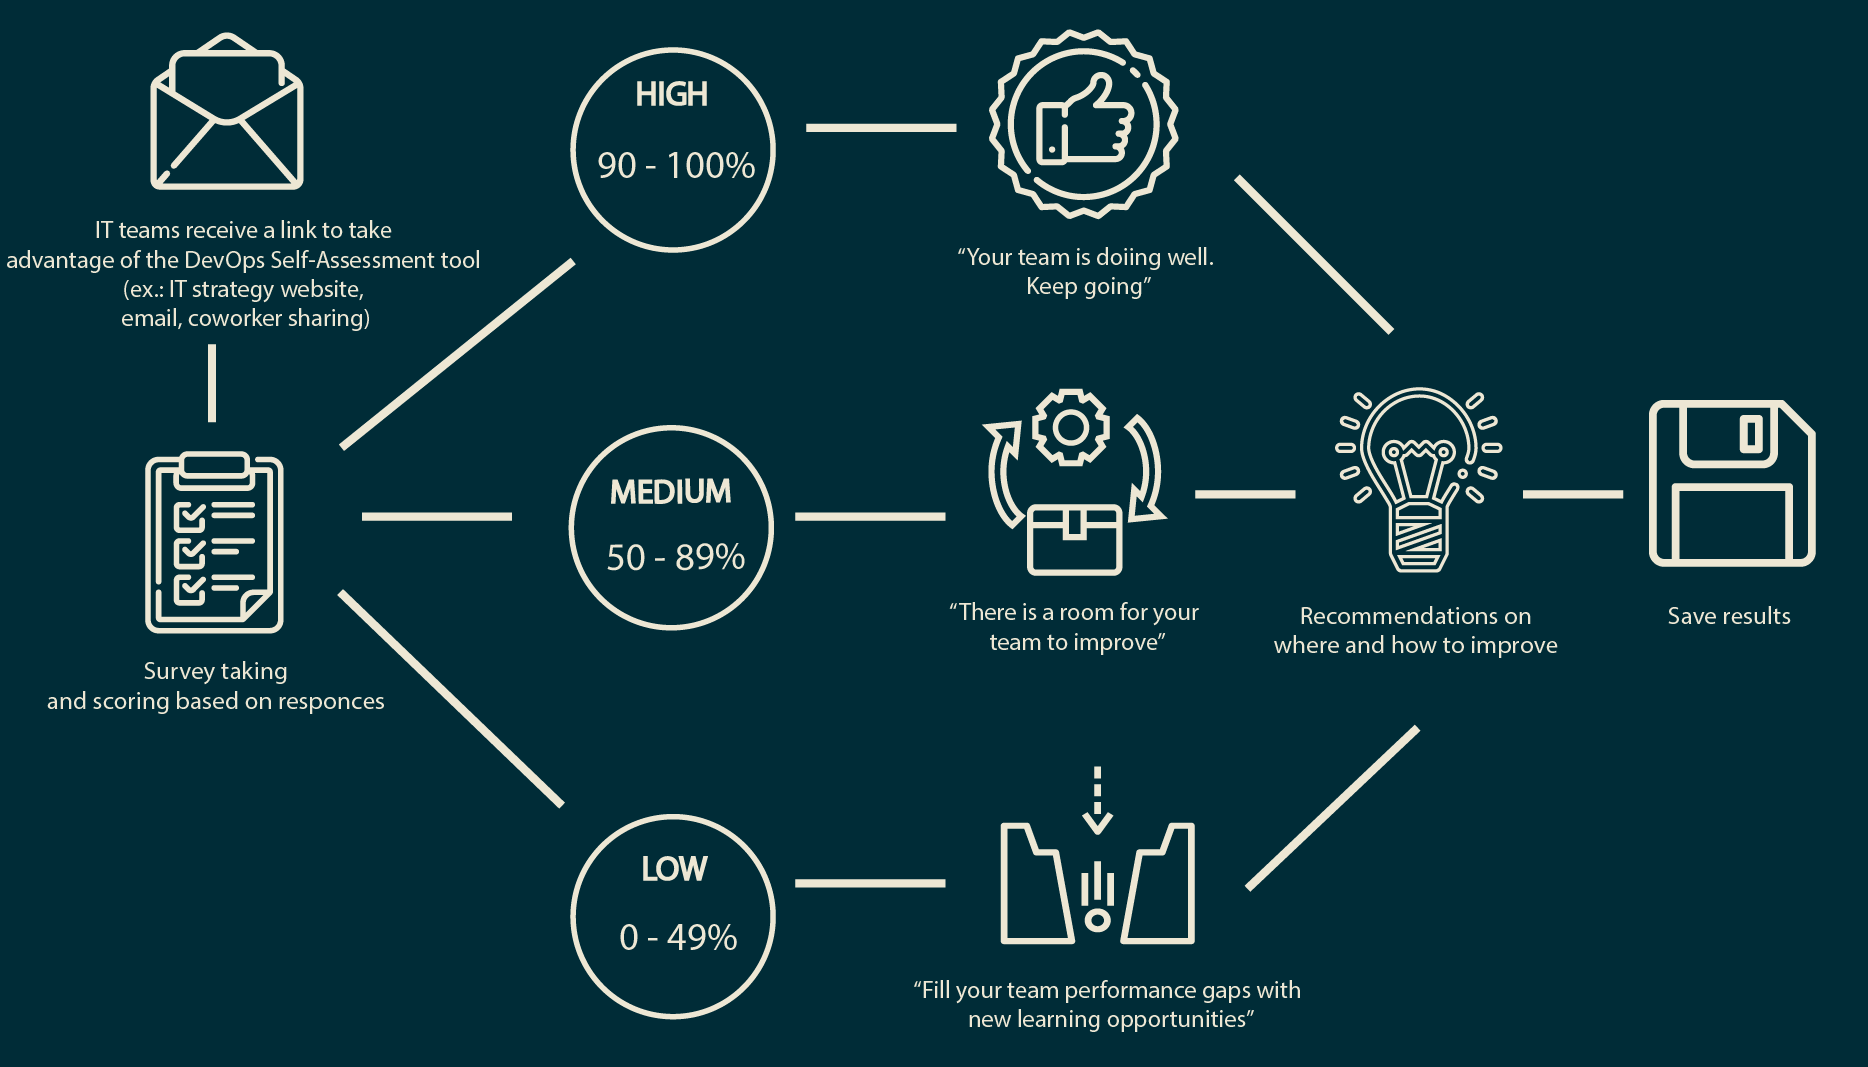
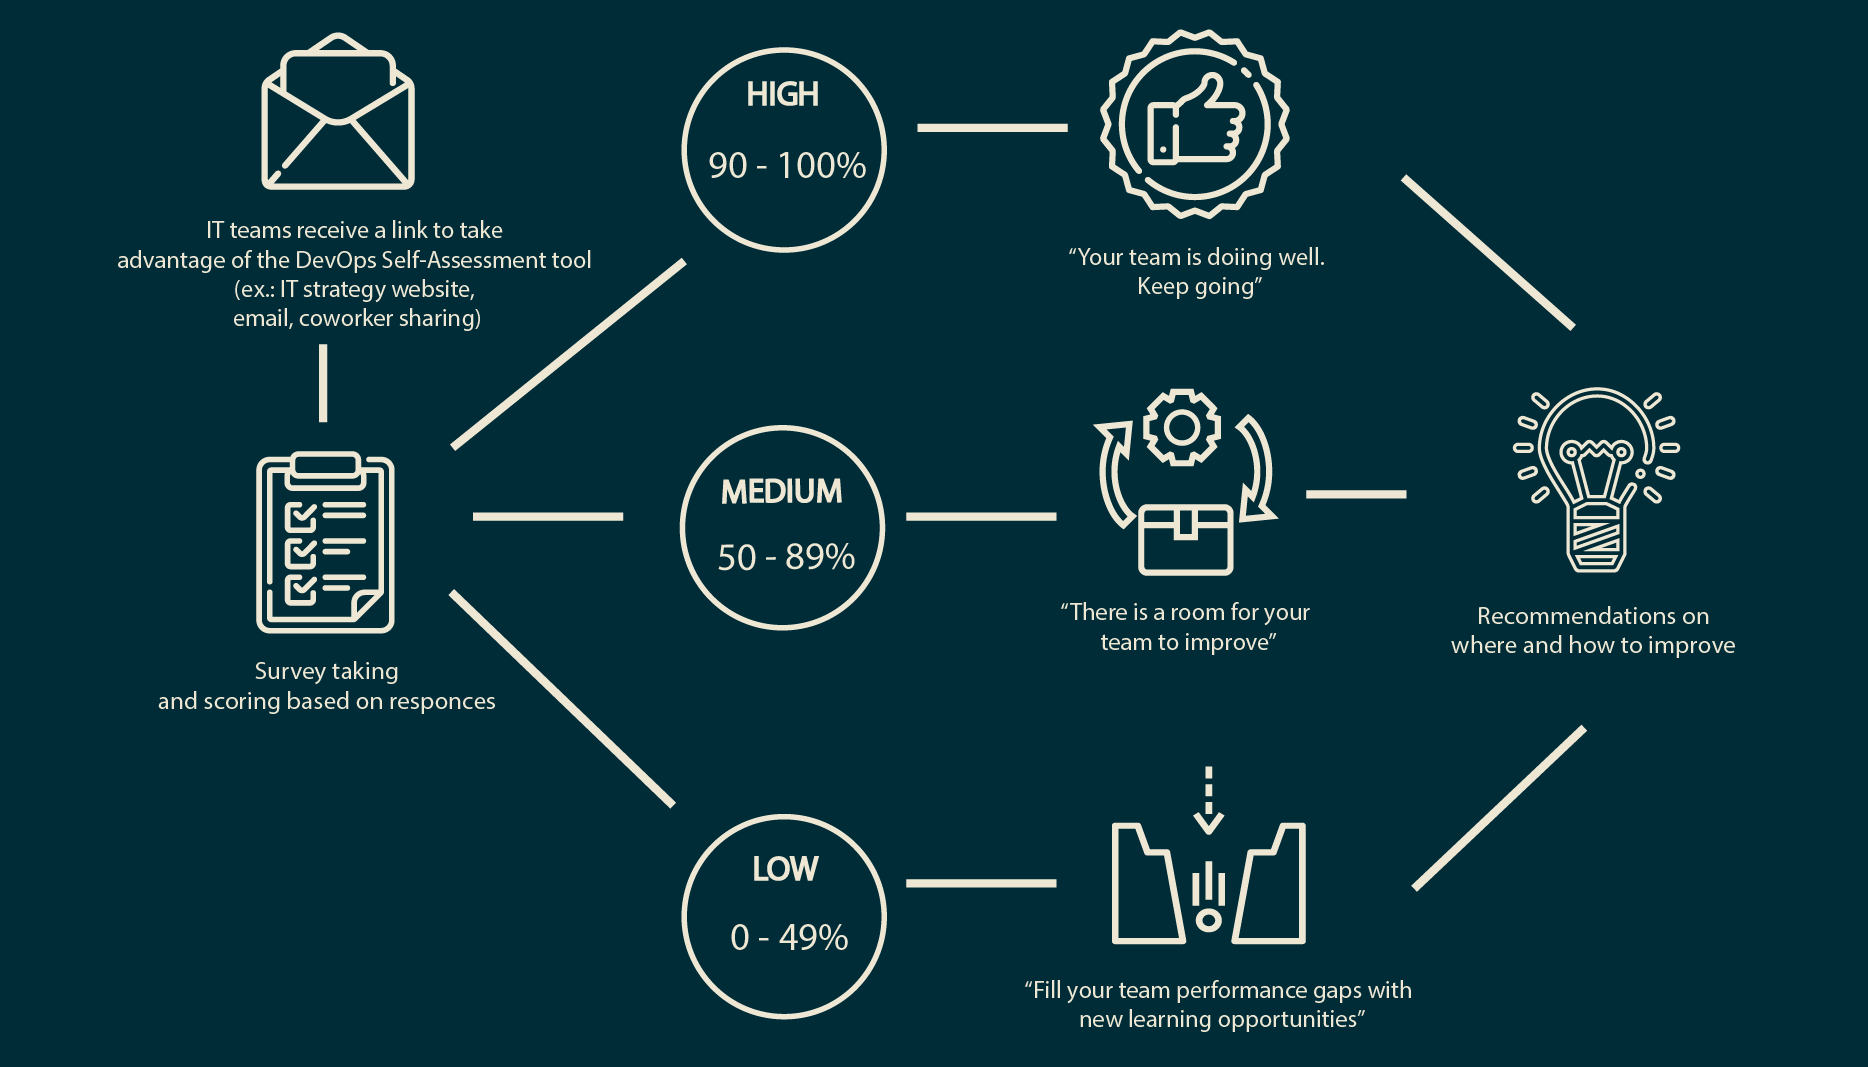
Update to the Self-assessment tool deck (#1654)
* Save changes after meeting

* Update credits and date

* changed image

* More edits

* Save before Dry-run

* Fix Build

diff --git a/presentations/en/2021-05-DevOps-Self-Assessment-Tool.md b/presentations/en/2021-05-DevOps-Self-Assessment-Tool.md
@@ -4,7 +4,7 @@
 
 ## Capabilities of high performing IT organizations
 
-SABR - IT Strategy - 2021-05
+IT Strategy & DevOps CoE - May 2021
 
 ---
 
@@ -15,7 +15,7 @@ SABR - IT Strategy - 2021-05
 - What is it based on
 - How to transform into high performing IT
 - How does it work
-- How long does it take and how often should I use it
+- What is involved
 - When and how can I get it
 - Demo
 
@@ -37,10 +37,49 @@ Promote continuous improvement through the use of a **DevOps Self Assessment Too
 ## Why use the tool
 
 - Learn about DevOps
-- Help establish a baseline on level of readiness and maturity to adopt DevOps
-- Recommendations on where and what to improve based on assessment results
-- Continuous improvement
-- Aligned to Policy and Directive on Service and Digital
+- Gather data to assess, analyse, implement and improve DevOps maturity, year over year at ESDC
+- Get recommendations on what your team can do to improve your capabilities
+  - DevOps guidance will continuously improve over time
+- GC Digital Standards
+- TBS Policy and Directive on Service and Digital
+
+--
+
+<img src="assets/images/improvement_method.png" alt="The image demonstrates assessment process methodology flow. It has five steps. Step 1. Assess your team performance and identify where it stands within DevOps. Step 2. Analyze and get your guidelines on how and what areas to improve. Step 3. Implement recommendations to achieve team desired outcomes. Step 4. Improve which means come back and re-take the survey to track your team progress.">
+
+---
+
+## What is it based on
+
+[DevOps Research & Assessment (DORA)](https://www.devops-research.com/research.html)
+
+- Over seven years of data and statistical analysis
+  - State of DevOps Reports (2014 to 2021)
+- Data from over 31000 professionals worldwide
+
+Identifies **capabilities that drive high performance in technology** delivery and ultimately organizational outcomes.
+
+> Recently bought by Google
+
+--
+
+### Why DORA
+
+- Longest running study of its kind
+- Based on statistical analysis
+- Not only technical capabilities
+- Real IT Organizations
+
+---
+
+## How to Transform
+
+### Continuous Improvement
+
+1. Set goals and enable team experimentation
+2. Build community structures to spread knowledge
+
+[DORA How To Transform](https://cloud.google.com/solutions/devops/devops-culture-transform)
 
 --
 
@@ -59,73 +98,25 @@ Promote continuous improvement through the use of a **DevOps Self Assessment Too
 - Time to restore service [1-24] hours
 - [Generative (Westrum) Culture](https://cloud.google.com/solutions/devops/devops-culture-westrum-organizational-culture)
 
----
-
-## What is it based on
-
-[DevOps Research & Assessment (DORA)](https://www.devops-research.com/research.html)*
-
-- Over six years of research
-- Data from over 31,000 professionals worldwide
-
-Identifies **capabilities that drive high performance in technology** delivery and ultimately organizational outcomes.
-
-> \* Recently bought by Google
-
----
-
-### How to Transform
-
-#### Continuous Improvement
-
-- [Capabilities](https://cloud.google.com/solutions/devops/capabilities)
-- [Transformational Leadership](https://cloud.google.com/solutions/devops/devops-culture-transformational-leadership)
-- [How To Transform](https://cloud.google.com/solutions/devops/devops-culture-transform)
-
 --
 
-## Process improvement methodology
+### DevOps @ ESDC
 
-<img src="assets/images/improvement_method.png" alt="The image demonstrates assessment process methodology flow. It has five steps. Step 1. Assess your team performance and identify where it stands within DevOps. Step 2. Analyze and get your guidelines on how and what areas to improve. Step 3. Implement recommendations to achieve team desired outcomes. Step 4. Improve which means come back and re-take the survey to track your team progress.">
-
---
-
-### Understand the current condition
-
-- [DORA DevOps Quick check](https://www.devops-research.com/quickcheck.html)
-- [IT Strategy DevOps Self-Assesment Tool](https://sara-sabr.github.io/auto-evaluation-devops-self-assessment/)
-- Value stream mapping
-- ..
-
---
-
-### Running experiments
-
-#### Ask the following questions
-
-- What are the current and target conditions?
-- What obstacles do you think are preventing you from reaching the target condition?
-- Which one are you addressing now?
-- What is your next step? What outcomes do you expect?
-- When can the results be evaluated to see what can be learned from taking that step?
+- DevOps Centre of Engagement (CoE)
+- Target SDM & Adopt, Buy or Build Strategies
+- Grassroots initiatives & Proof of concepts
+- Cloud sandbox
+- Engagement Strategy for "transformation"
 
 ---
 
 ## How does it work
 
-Survey with 11 sections
-
-Teams are encouraged to fill out every section, but it is possible to fill out individual sections independently.
-
---
-
 <img src="assets/images/Process.png" alt= "First, IT teams receive a link to take advantage of the DevOps Self-Assessment tool (example: IT Strategy website, email, coworker sharing. Then, the user is taking a survey after what it is scored based on responces. If the user scores high, which is 90-100%, the team is doing well. If the user scores medium, which is 50-89%, there is a room for the team to improve. If the user score low, which is 0-49%, the team needs to fill gaps with new learning opportunities. In all cases recommendations on where and how to improve will be provided. Finally, the user can save results.">
-
-[Demo](https://sara-sabr.github.io/auto-evaluation-devops-self-assessment/)
 
 ---
 
-## How Much Time
+## What is involved
 
 <img src="assets/images/sections.png" alt="The image shows how many sections has a survey. The survey has eveven sections. Teams are encouraged to fill out every section. It is possible to to fill out individual sections independently. How long does it take? The complete assessment takes under an hour. Each section takes 3-5 minutes. How often to use it? We recommend to use DevOps Self-Assessment tool every 6-12 month to measure teams progress and to reestablish baseline.">
 
@@ -139,9 +130,28 @@ Teams are encouraged to fill out every section, but it is possible to fill out i
 
 ---
 
-Demo
+[Demo](https://sara-sabr.github.io/auto-evaluation-devops-self-assessment/)
 
 Questions ?
+
+---
+
+## UX testing
+
+- Positive feedback
+- Easy to use
+- Nice looking
+
+"This should be available to everyone" - UX tester
+
+---
+
+### Other Links
+
+- [DORA Capabilities](https://cloud.google.com/solutions/devops/capabilities)
+  - [DORA Transformational Leadership](https://cloud.google.com/solutions/devops/devops-culture-transformational-leadership)
+- [DORA DevOps Quick check](https://www.devops-research.com/quickcheck.html)
+- [Microsoft DevOps Self-Assessment](https://devopsassessment.net/)
 
 ---
 
